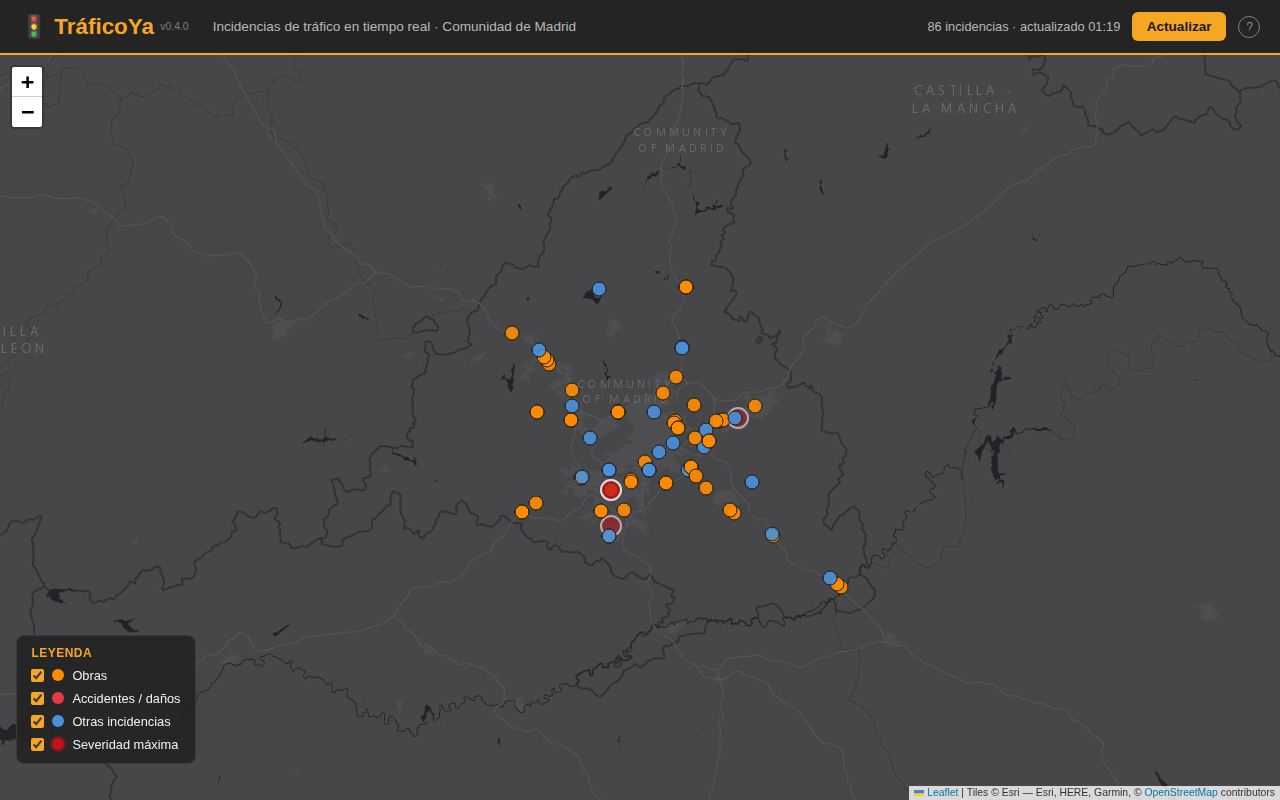
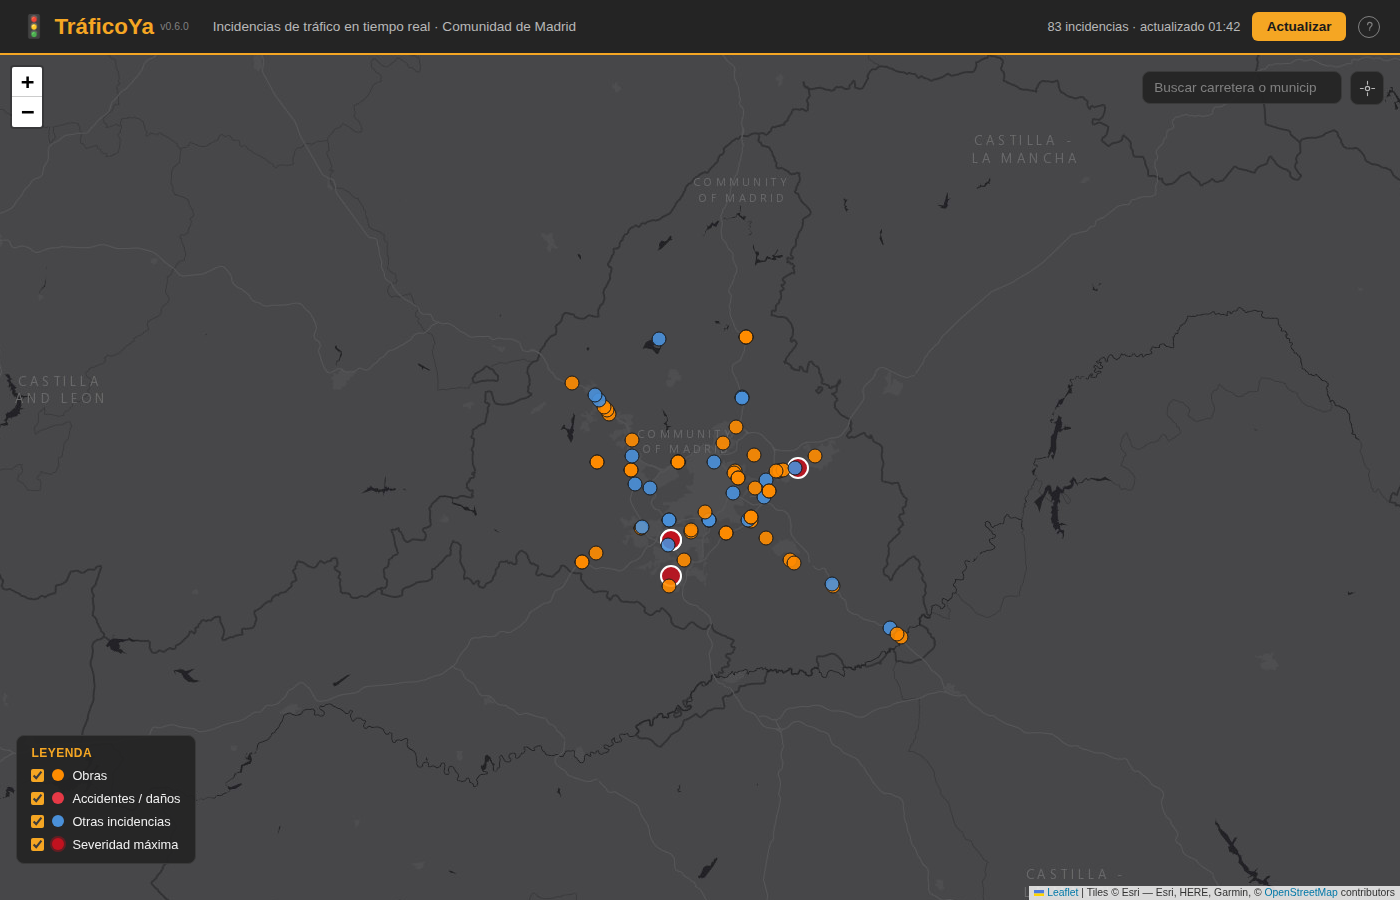
feat: buscador por carretera/municipio y geolocalización (v0.6.0)
Buscador: input en la esquina superior derecha del mapa que filtra al
instante por carretera o municipio (acentos/mayúsculas normalizados),
compuesto con los filtros de la leyenda a través de un único gate
(incidenciaVisible), y encuadra el mapa sobre los resultados con un
pequeño debounce para no dar saltos de zoom mientras se escribe. Aviso
"Sin resultados" cuando no hay coincidencias.

Geolocalización: botón que pide la ubicación al navegador, la marca en
el mapa (punto azul con halo de precisión, capa propia para que
sobreviva a cada repintado) y centra la vista ahí. A partir de ese
momento el popup de cualquier incidencia incluye la distancia en línea
recta hasta tu ubicación.

Verificado con Playwright: el buscador filtra y se combina con los
filtros de tipo, el aviso de sin resultados aparece/desaparece
correctamente, la geolocalización (con coordenadas simuladas) pinta el
marcador y el popup pasa a mostrar "Distancia", y el marcador de
ubicación sobrevive a un refresco manual — sin errores de consola.
También reconfirmado que el panel de ayuda sigue con su trampa de foco
intacta.

diff --git a/public/app.js b/public/app.js
@@ -20,6 +20,8 @@
     '<svg viewBox="0 0 24 24" fill="none" aria-hidden="true"><g transform="translate(12 12) scale(1.35) translate(-12 -12)"><path d="M9.4 9.6c0-1.9 1.6-3.3 2.7-3.3 2 0 3.4 1.4 3.4 3.1 0 1.3-.7 2.1-1.8 2.8-.9.6-1.3 1-1.3 2v.5" stroke="currentColor" stroke-width="1.6" stroke-linecap="round" stroke-linejoin="round"/><circle cx="12.1" cy="16.9" r="1.05" fill="currentColor"/></g></svg>';
   const ICON_CLOSE =
     '<svg viewBox="0 0 24 24" fill="none" aria-hidden="true"><path d="M6 6l12 12M18 6 6 18" stroke="currentColor" stroke-width="1.6" stroke-linecap="round"/></svg>';
+  const ICON_LOCATION =
+    '<svg viewBox="0 0 24 24" fill="none" aria-hidden="true"><circle cx="12" cy="12" r="3" stroke="currentColor" stroke-width="1.6"/><path d="M12 2v4M12 18v4M2 12h4M18 12h4" stroke="currentColor" stroke-width="1.6" stroke-linecap="round"/></svg>';
 
   const estadoEl = document.getElementById('estado');
   const btnRefrescar = document.getElementById('btn-refrescar');
@@ -36,6 +38,26 @@
   ).addTo(mapa);
 
   const capaIncidencias = L.layerGroup().addTo(mapa);
+  const capaUbicacion = L.layerGroup().addTo(mapa);
+
+  // Distinta de capaIncidencias a propósito: pintarIncidencias limpia y repinta esa capa en
+  // cada refresco/filtro, y el marcador de "tu ubicación" no debe parpadear ni desaparecer
+  // cada vez que eso ocurre.
+  let ubicacionUsuario = null; // {lat, lon} o null si no se ha pedido/concedido
+
+  function distanciaKm(lat1, lon1, lat2, lon2) {
+    const R = 6371;
+    const dLat = ((lat2 - lat1) * Math.PI) / 180;
+    const dLon = ((lon2 - lon1) * Math.PI) / 180;
+    const a =
+      Math.sin(dLat / 2) ** 2 +
+      Math.cos((lat1 * Math.PI) / 180) * Math.cos((lat2 * Math.PI) / 180) * Math.sin(dLon / 2) ** 2;
+    return R * 2 * Math.atan2(Math.sqrt(a), Math.sqrt(1 - a));
+  }
+
+  function formatDistancia(km) {
+    return km < 1 ? `${Math.round(km * 1000)} m` : `${km.toFixed(1)} km`;
+  }
 
   function categoriaDe(tipo) {
     return CATEGORIA_POR_TIPO[tipo] || 'resto';
@@ -61,12 +83,19 @@
     const inicio = formatFecha(incidencia.fecha_inicio);
     const fin = formatFecha(incidencia.fecha_fin);
 
+    const distancia = ubicacionUsuario
+      ? formatDistancia(
+          distanciaKm(ubicacionUsuario.lat, ubicacionUsuario.lon, incidencia.lat, incidencia.lon)
+        )
+      : null;
+
     const filas = [
       incidencia.carretera ? `<dt>Carretera</dt><dd>${incidencia.carretera}</dd>` : '',
       incidencia.sentido ? `<dt>Sentido</dt><dd>${incidencia.sentido}</dd>` : '',
       typeof incidencia.kilometro === 'number' ? `<dt>Punto kilométrico</dt><dd>Km ${incidencia.kilometro}</dd>` : '',
       incidencia.carril ? `<dt>Carril</dt><dd>${incidencia.carril}</dd>` : '',
       incidencia.municipio ? `<dt>Municipio</dt><dd>${incidencia.municipio}</dd>` : '',
+      distancia ? `<dt>Distancia</dt><dd>${distancia} de tu ubicación</dd>` : '',
       inicio ? `<dt>Inicio</dt><dd>${inicio}</dd>` : '',
       fin ? `<dt>Fin previsto</dt><dd>${fin}</dd>` : '',
     ].join('');
@@ -85,15 +114,42 @@
     `;
   }
 
+  // Sin tildes ni mayúsculas, para que "alcobendas"/"Alcobéndas" den con "Alcobendas" igual.
+  function normalizarTexto(str) {
+    return str
+      .normalize('NFD')
+      .replace(/[̀-ͯ]/g, '')
+      .toLowerCase()
+      .trim();
+  }
+
+  function coincideBusqueda(incidencia) {
+    if (!textoBusqueda) return true;
+    return (
+      normalizarTexto(incidencia.carretera || '').includes(textoBusqueda) ||
+      normalizarTexto(incidencia.municipio || '').includes(textoBusqueda)
+    );
+  }
+
+  function incidenciaVisible(incidencia) {
+    return (
+      typeof incidencia.lat === 'number' &&
+      typeof incidencia.lon === 'number' &&
+      bucketsVisibles.has(bucketDe(incidencia)) &&
+      coincideBusqueda(incidencia)
+    );
+  }
+
+  // Devuelve las incidencias realmente pintadas (tras aplicar filtros de leyenda y búsqueda),
+  // para que quien llama (el buscador) pueda encuadrar el mapa sobre ellas sin recalcular el
+  // filtro por su cuenta.
   function pintarIncidencias(incidencias) {
     capaIncidencias.clearLayers();
 
-    incidencias.forEach((incidencia) => {
-      if (typeof incidencia.lat !== 'number' || typeof incidencia.lon !== 'number') return;
+    const visibles = incidencias.filter(incidenciaVisible);
 
+    visibles.forEach((incidencia) => {
       const bucket = bucketDe(incidencia);
-      if (!bucketsVisibles.has(bucket)) return;
-
       const esHighest = bucket === 'highest';
 
       const marcador = L.circleMarker([incidencia.lat, incidencia.lon], {
@@ -108,6 +164,10 @@
       marcador.bindPopup(construirPopup(incidencia));
       marcador.addTo(capaIncidencias);
     });
+
+    buscadorSinResultados.hidden = !textoBusqueda || visibles.length > 0;
+
+    return visibles;
   }
 
   // Filtros de la leyenda: todos los buckets visibles por defecto. Se guardan las últimas
@@ -115,6 +175,7 @@
   // feed — cambiar qué se ve no debería depender de la red ni esperar al próximo refresco.
   const bucketsVisibles = new Set(['obras', 'accidente', 'resto', 'highest']);
   let ultimasIncidencias = [];
+  let textoBusqueda = '';
 
   document.querySelectorAll('.filtro-checkbox').forEach((checkbox) => {
     checkbox.addEventListener('change', () => {
@@ -123,6 +184,77 @@
       else bucketsVisibles.delete(bucket);
       pintarIncidencias(ultimasIncidencias);
     });
+  });
+
+  // Buscador por carretera/municipio: filtra al instante en cada tecla (barato, menos de un
+  // centenar de incidencias), pero el encuadre del mapa a los resultados se retrasa un poco
+  // (debounce) para no dar saltos de zoom en cada letra mientras se escribe.
+  const buscadorInput = document.getElementById('buscador-input');
+  const buscadorSinResultados = document.getElementById('buscador-sin-resultados');
+  let debounceEncuadre = null;
+
+  buscadorInput.addEventListener('input', () => {
+    textoBusqueda = normalizarTexto(buscadorInput.value);
+    const visibles = pintarIncidencias(ultimasIncidencias);
+
+    clearTimeout(debounceEncuadre);
+    if (!textoBusqueda || visibles.length === 0) return;
+    debounceEncuadre = setTimeout(() => {
+      const bounds = L.latLngBounds(visibles.map((i) => [i.lat, i.lon]));
+      mapa.fitBounds(bounds, { padding: [60, 60], maxZoom: 14 });
+    }, 400);
+  });
+
+  // Geolocalización: pide la ubicación al navegador, la marca en el mapa (capaUbicacion, no
+  // capaIncidencias, para que sobreviva a cada repintado) y centra la vista ahí. A partir de
+  // ese momento construirPopup añade la distancia a cada incidencia — no hace falta volver a
+  // pintar nada para que aparezca, se calcula la próxima vez que se abra un popup.
+  const btnUbicacion = document.getElementById('btn-ubicacion');
+  btnUbicacion.innerHTML = ICON_LOCATION;
+
+  btnUbicacion.addEventListener('click', () => {
+    if (!('geolocation' in navigator)) {
+      estadoEl.textContent = 'Tu navegador no admite geolocalización.';
+      return;
+    }
+
+    btnUbicacion.disabled = true;
+    navigator.geolocation.getCurrentPosition(
+      (posicion) => {
+        const { latitude, longitude, accuracy } = posicion.coords;
+        ubicacionUsuario = { lat: latitude, lon: longitude };
+
+        capaUbicacion.clearLayers();
+        L.circle([latitude, longitude], {
+          radius: accuracy,
+          color: '#2196f3',
+          weight: 1,
+          fillColor: '#2196f3',
+          fillOpacity: 0.15,
+        }).addTo(capaUbicacion);
+        L.circleMarker([latitude, longitude], {
+          radius: 8,
+          color: '#ffffff',
+          weight: 2,
+          fillColor: '#2196f3',
+          fillOpacity: 1,
+          className: 'marcador-ubicacion',
+        }).addTo(capaUbicacion);
+
+        mapa.setView([latitude, longitude], 13);
+        btnUbicacion.disabled = false;
+        btnUbicacion.classList.add('activo');
+      },
+      (error) => {
+        console.error('Error de geolocalización:', error);
+        estadoEl.textContent =
+          error.code === error.PERMISSION_DENIED
+            ? 'Permiso de ubicación denegado.'
+            : 'No se pudo obtener tu ubicación.';
+        btnUbicacion.disabled = false;
+      },
+      { enableHighAccuracy: true, timeout: 10000 }
+    );
   });
 
   async function cargarIncidencias() {

diff --git a/public/style.css b/public/style.css
@@ -151,6 +151,102 @@ main {
   background: var(--bg);
 }
 
+.controles-mapa {
+  position: absolute;
+  z-index: 1000;
+  top: 1rem;
+  right: 1rem;
+  display: flex;
+  align-items: flex-start;
+  gap: 0.5rem;
+}
+
+.buscador {
+  position: relative;
+}
+
+#buscador-input {
+  width: 200px;
+  max-width: 42vw;
+  background: rgba(36, 36, 36, 0.92);
+  border: 1px solid #3a3a3a;
+  border-radius: 8px;
+  padding: 0.5rem 0.7rem;
+  color: var(--texto);
+  font-size: 0.85rem;
+}
+
+#buscador-input::placeholder {
+  color: #808080;
+}
+
+#buscador-input:focus {
+  border-color: var(--accent);
+}
+
+.buscador-sin-resultados {
+  position: absolute;
+  top: 100%;
+  right: 0;
+  margin: 0.3rem 0 0;
+  padding: 0.3rem 0.6rem;
+  background: rgba(36, 36, 36, 0.92);
+  border: 1px solid #3a3a3a;
+  border-radius: 6px;
+  font-size: 0.75rem;
+  color: var(--accidente);
+  white-space: nowrap;
+}
+
+.btn-ubicacion {
+  flex-shrink: 0;
+  width: 34px;
+  height: 34px;
+  border-radius: 8px;
+  background: rgba(36, 36, 36, 0.92);
+  border: 1px solid #3a3a3a;
+  color: #b8b8b8;
+  cursor: pointer;
+  display: flex;
+  align-items: center;
+  justify-content: center;
+}
+
+.btn-ubicacion svg {
+  display: block;
+  width: 17px;
+  height: 17px;
+}
+
+.btn-ubicacion:hover,
+.btn-ubicacion.activo {
+  border-color: var(--accent);
+  color: var(--accent);
+}
+
+.btn-ubicacion:disabled {
+  opacity: 0.5;
+  cursor: default;
+}
+
+/* Halo de precisión + punto de "tu ubicación": mismo lenguaje visual que Google/Apple Maps
+   (punto sólido con borde blanco sobre un círculo translúcido), a propósito distinto en forma
+   del resto de marcadores aunque el azul se parezca al de "Otras incidencias" — así no hay
+   ambigüedad ni siquiera para quien no ve bien el color. */
+.marcador-ubicacion {
+  animation: pulso-ubicacion 2s ease-in-out infinite;
+}
+
+@keyframes pulso-ubicacion {
+  0%, 100% { opacity: 1; }
+  50% { opacity: 0.7; }
+}
+
+@media (max-width: 600px) {
+  .controles-mapa { top: 0.5rem; right: 0.5rem; }
+  #buscador-input { width: 150px; font-size: 0.8rem; }
+}
+
 .leyenda {
   position: absolute;
   z-index: 1000;

diff --git a/public/index.html b/public/index.html
@@ -27,7 +27,7 @@
       <!-- Versión sincronizada a mano con "version" en package.json en cada despliegue con
            cambios visibles (mismo patrón que BusYa). Va aquí, no en .subtitle, para que
            siga visible en móvil aunque el subtítulo se oculte. -->
-      <span class="version">v0.5.0</span>
+      <span class="version">v0.6.0</span>
     </h1>
     <p class="subtitle">Incidencias de tráfico en tiempo real · Comunidad de Madrid</p>
     <div class="header-actions">
@@ -39,6 +39,14 @@
 
   <main>
     <div id="mapa"></div>
+
+    <div class="controles-mapa">
+      <div class="buscador">
+        <input type="search" id="buscador-input" placeholder="Buscar carretera o municipio" aria-label="Buscar por carretera o municipio" />
+        <p id="buscador-sin-resultados" class="buscador-sin-resultados" hidden>Sin resultados</p>
+      </div>
+      <button id="btn-ubicacion" class="btn-ubicacion" type="button" aria-label="Centrar en mi ubicación" title="Mi ubicación"></button>
+    </div>
 
     <aside class="leyenda" aria-label="Filtrar incidencias por tipo">
       <h2>Leyenda</h2>
@@ -87,6 +95,11 @@
         <p>Toca las casillas de la leyenda para ocultar del mapa los tipos que no te
         interesen — se recuerda mientras tengas la página abierta, sin necesidad de recargar
         ni de esperar al próximo refresco.</p>
+        <h3>Buscar y ubicación</h3>
+        <p>El buscador de arriba a la derecha del mapa filtra al instante por nombre de
+        carretera o municipio (por ejemplo "M-30" o "Alcobendas"), y centra el mapa en los
+        resultados. El botón de al lado pide tu ubicación al navegador, la marca en el mapa y
+        añade la distancia a cada incidencia en su propio popup.</p>
         <h3>Actualización</h3>
         <p>Los datos se refrescan solos cada 3 minutos. El botón "Actualizar" de la cabecera
         fuerza una actualización inmediata en cualquier momento.</p>

diff --git a/public/sw.js b/public/sw.js
@@ -13,7 +13,7 @@
 // sin necesidad de subir esto, pero entonces nadie se entera del cambio hasta la siguiente vez
 // que abra la app de cero: subir la versión aquí en cada despliegue con cambios visibles es lo
 // que hace que salga el aviso.
-const CACHE_NAME = 'traficoya-v0.5.0';
+const CACHE_NAME = 'traficoya-v0.6.0';
 const SHELL_FILES = [
   '/',
   '/index.html',

diff --git a/README.md b/README.md
@@ -8,8 +8,8 @@
 ![License: MIT](https://img.shields.io/badge/License-MIT-yellow.svg?style=flat)
 
 Mapa en tiempo real de incidencias de tráfico en la Comunidad de Madrid, con datos abiertos de
-la DGT — obras, accidentes, cierres y demás incidencias activas, filtrables por tipo, con
-detalles al tocar cada una. Funciona como PWA instalable en el móvil.
+la DGT — obras, accidentes, cierres y demás incidencias activas, filtrables por tipo o por
+carretera/municipio, con detalles al tocar cada una. Funciona como PWA instalable en el móvil.
 
 Tercer proyecto de una serie de apps con APIs públicas para portfolio, junto a
 [Disaster Watch](https://github.com/rzazo24/disaster-watch) (GDACS) y
@@ -28,6 +28,13 @@ Tercer proyecto de una serie de apps con APIs públicas para portfolio, junto a
 Cada tipo de incidencia (obras, accidentes/daños, resto, severidad máxima) se puede ocultar del
 mapa tocando su casilla en la leyenda — se aplica al instante, sin recargar ni esperar al
 próximo refresco, y se mantiene aunque los datos se actualicen solos cada 3 minutos.
+
+## Buscador y ubicación
+
+El buscador de arriba a la derecha del mapa filtra al instante por nombre de carretera o
+municipio (acentos y mayúsculas no importan) y encuadra el mapa sobre los resultados; se
+combina con los filtros de la leyenda. El botón de al lado pide la ubicación al navegador, la
+marca en el mapa y añade la distancia a cada incidencia en su propio popup.
 
 ## Ayuda
 
@@ -86,7 +93,7 @@ traficoya/
 ├── public/
 │   ├── index.html
 │   ├── style.css
-│   ├── app.js                # mapa Leaflet, filtros de la leyenda, panel de ayuda, registro del SW
+│   ├── app.js                # mapa Leaflet, filtros/buscador, geolocalización, panel de ayuda, registro del SW
 │   ├── sw.js                 # service worker: cachea el shell estático (nunca las incidencias en vivo)
 │   ├── manifest.webmanifest
 │   ├── favicon.svg
